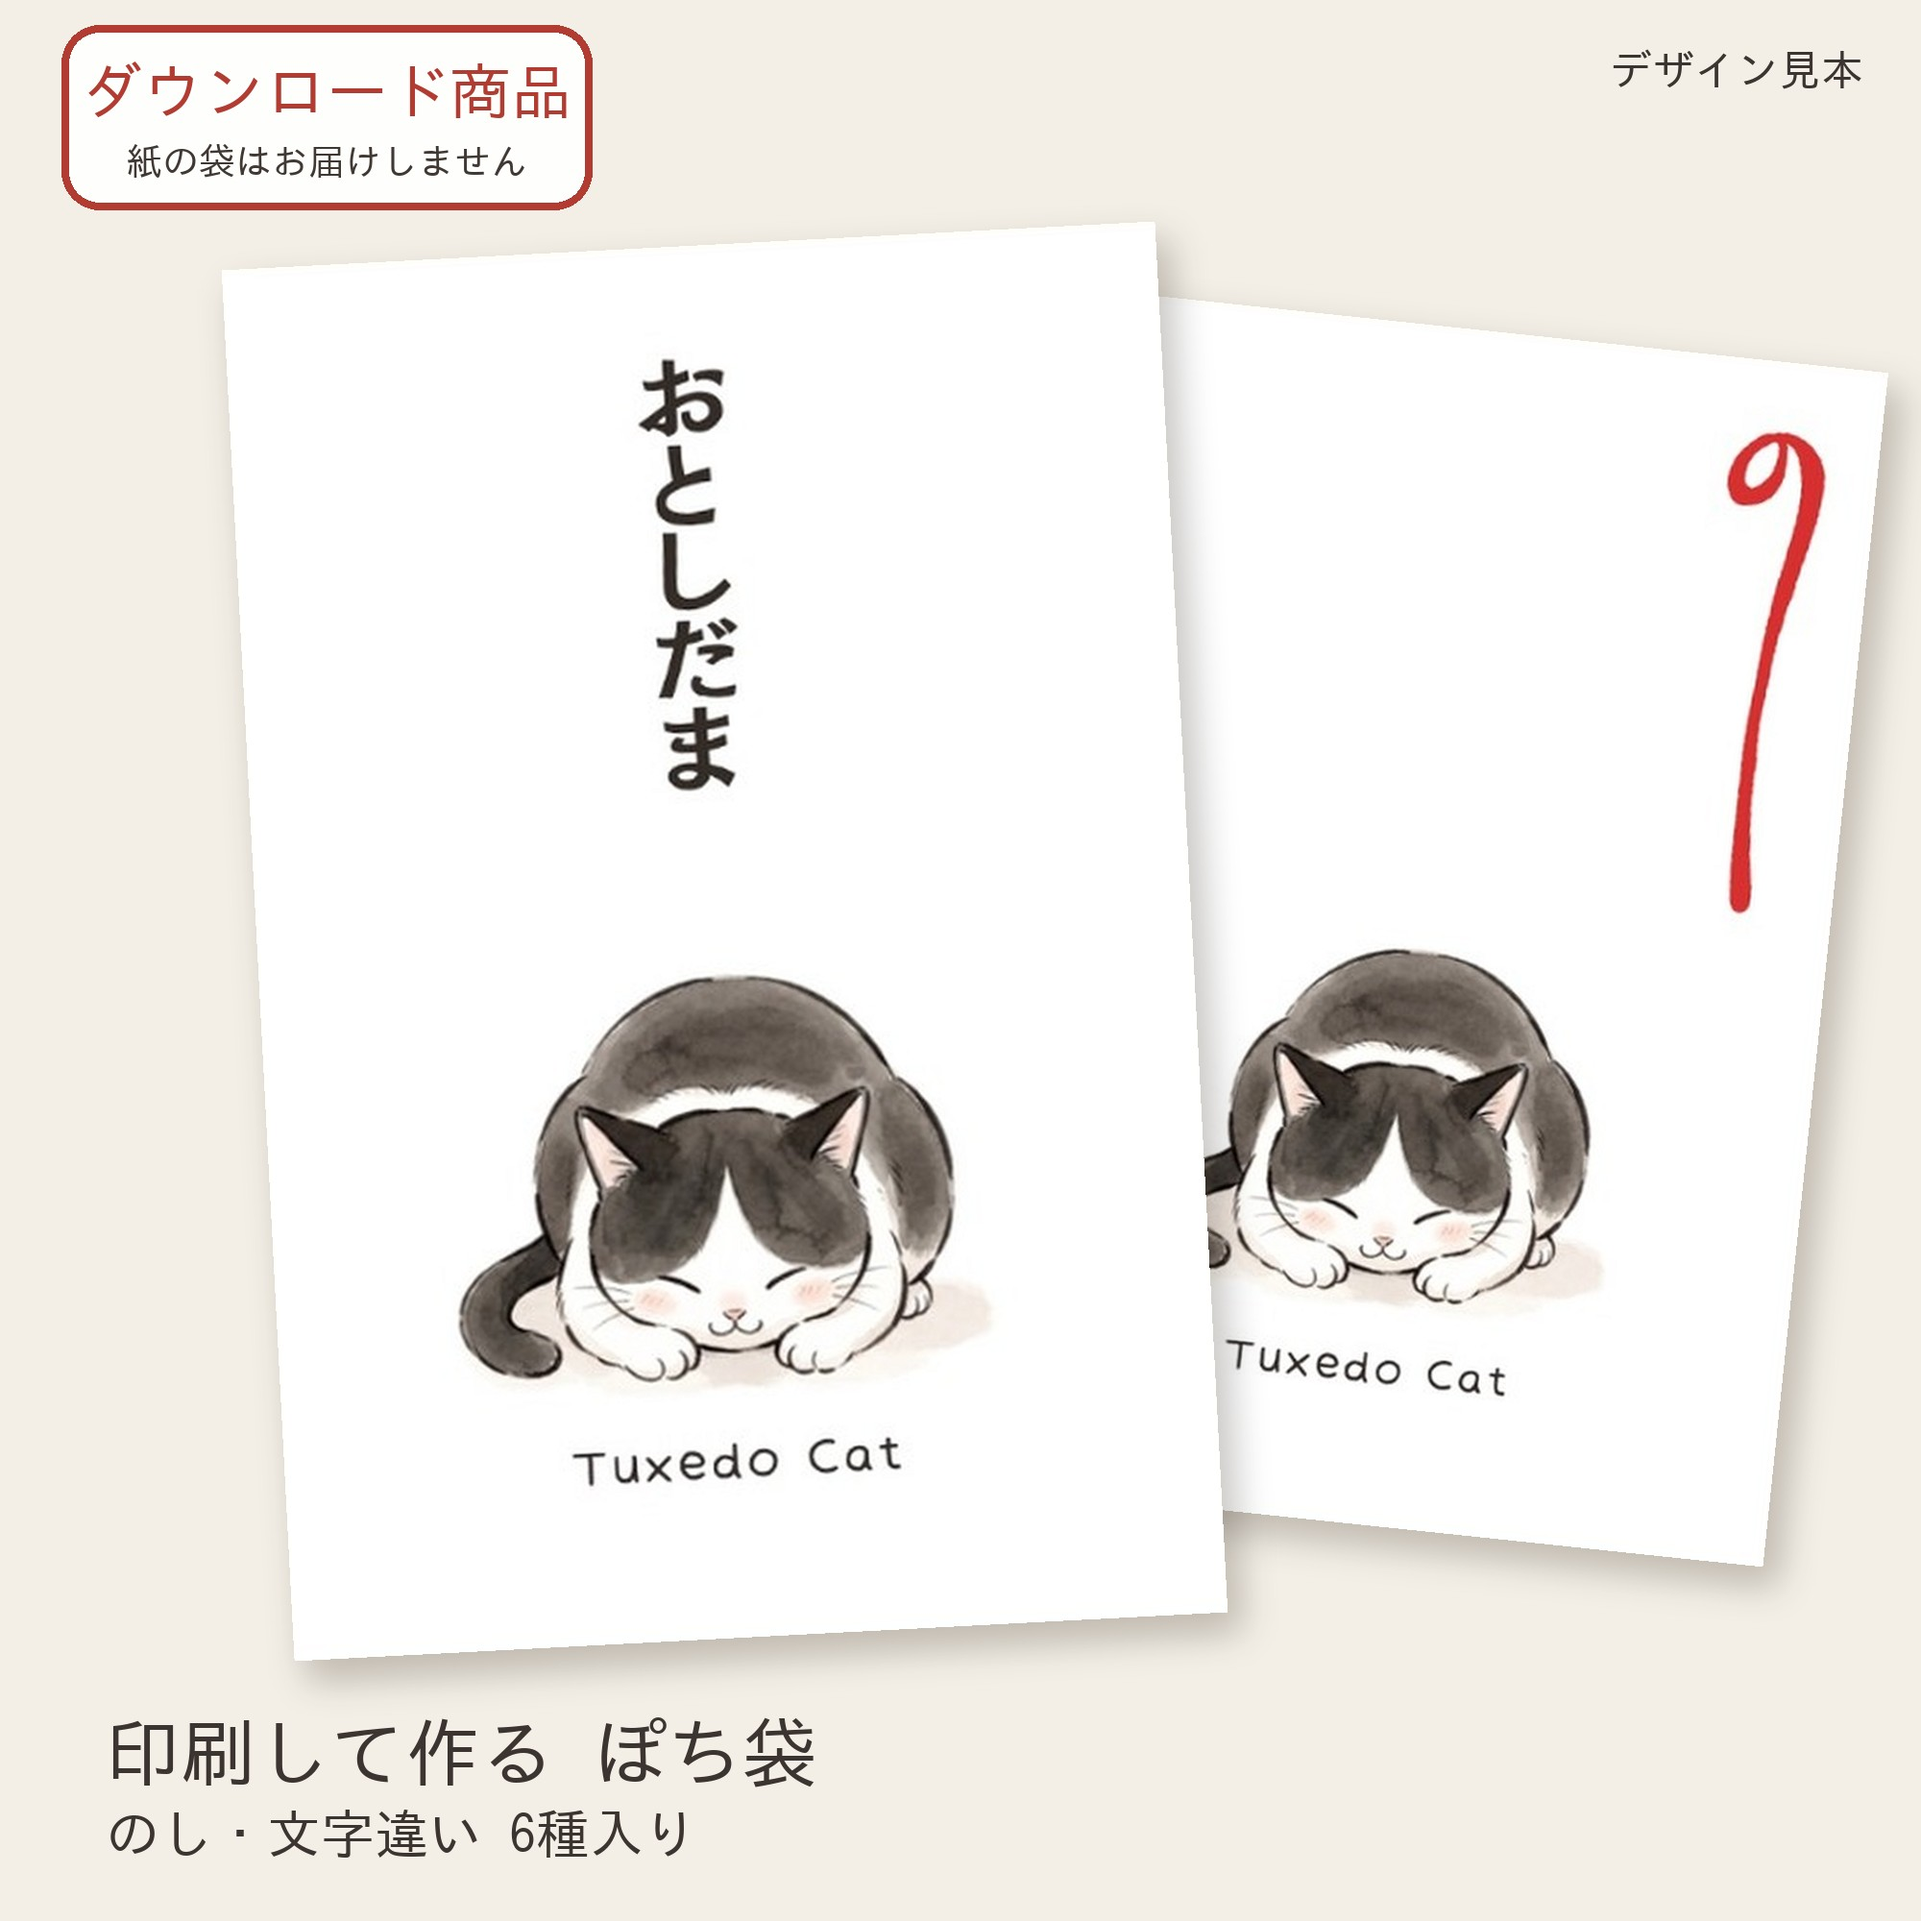
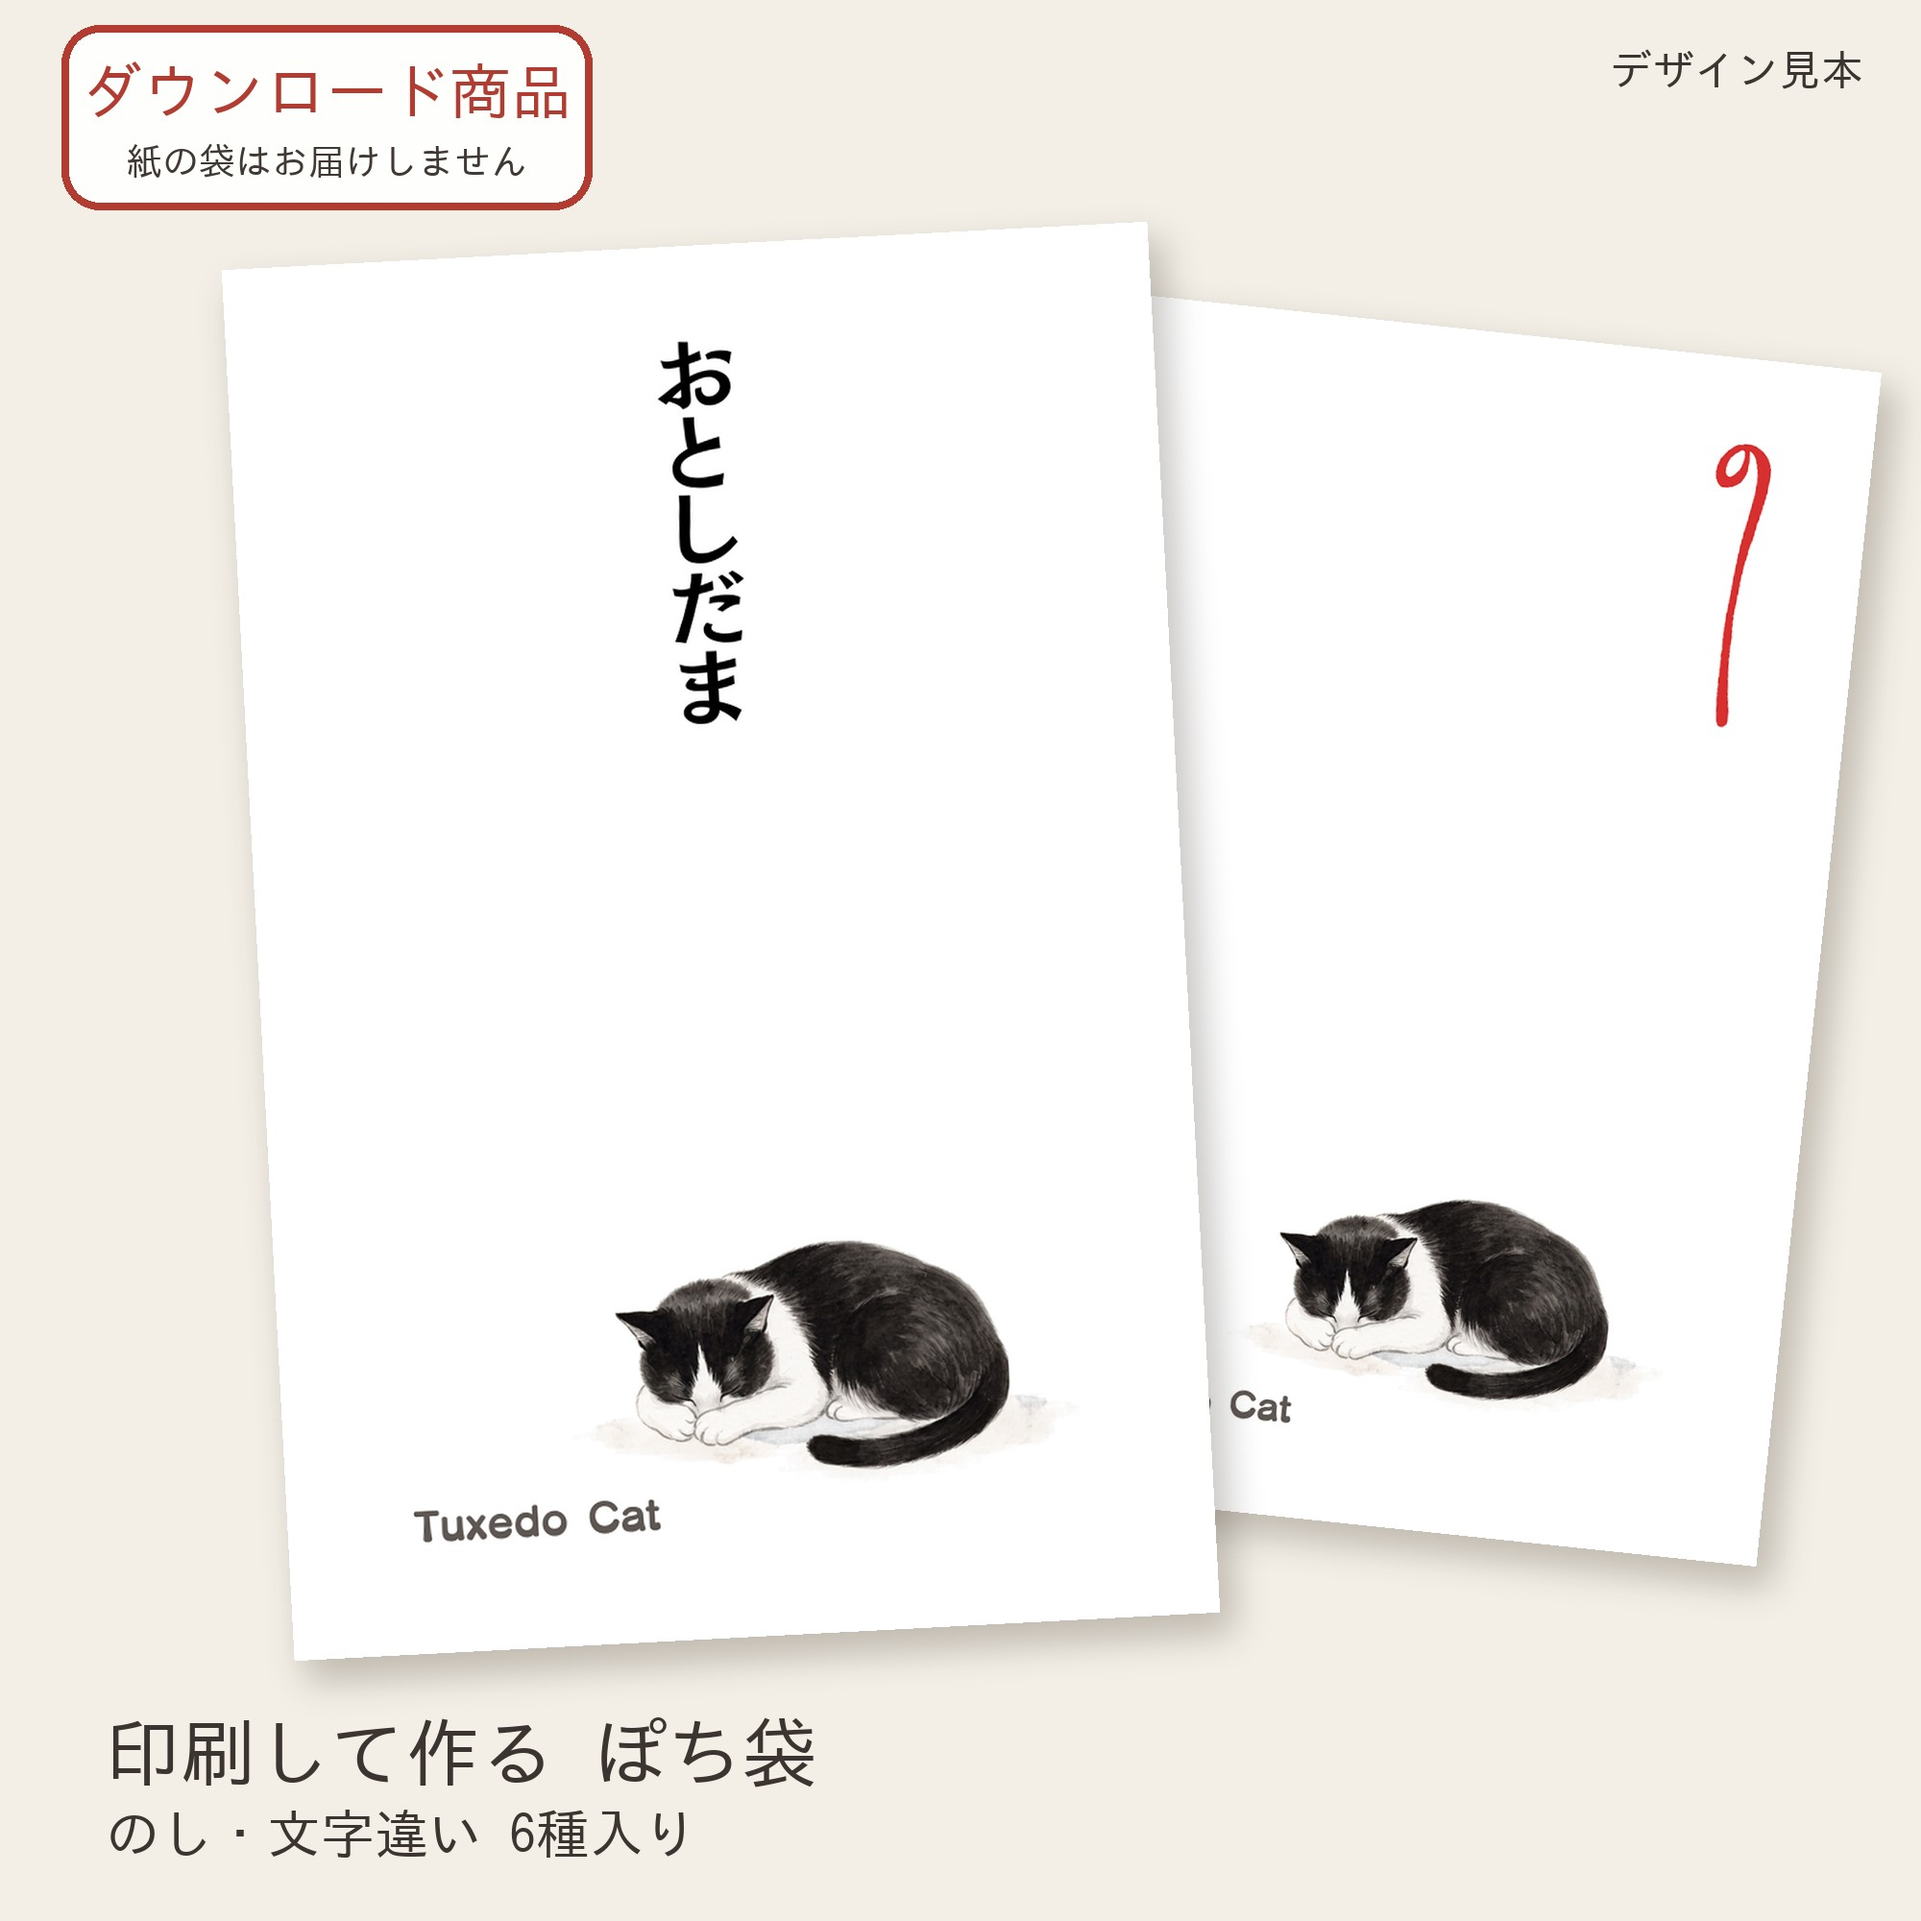
ハチワレ: 作り直した絵で商品画像(1・3枚目)と、ポストカード入りの出品文
Claude-Session: https://claude.ai/code/session_017Q7oY74jx7snH393ipSzN7

diff --git a/docs/minne-pochi-listing-cat-hachiware.md b/docs/minne-pochi-listing-cat-hachiware.md
@@ -1,29 +1,34 @@
-# 出品文(STEP5) ハチワレのぽち袋 データ版
+# 出品文(STEP5) ハチワレのぽち袋+ポストカード データ版
 
-柴犬のひな形(`minne-pochi-listing-shiba.md`)を猫用にしたもの(テーマの書き方を「猫の柄・猫種ごと」に、タグの「犬好き」を「猫好き」に変えた)。
+猫の新しい形(500円)に、ポストカード2種を足した版(柴犬と同じ形)。絵は「写生の水墨画」として書き直した指示文(`minne-pochi-cats-painterly.md` のハチワレ)で作り直した。Canvaの共通マスターで作り、画像はPDFから `shop/make_from_pdf.py` で作った。
 
 ## 商品名
-ハチワレ猫のぽち袋 ごめん寝｜お年玉・お礼に｜印刷して作るダウンロード版 のし付き6種(AIを用いた作品)
+ハチワレ猫のぽち袋とポストカード ごめん寝｜お年玉・お礼に｜印刷して作るダウンロード版 のし付き6種(AIを用いた作品)
+- minneの商品名の文字数の上限に入るか、出品の画面で確かめる。入らないときは「｜お年玉・お礼に」を外す
 
 ## 価格(仮)
 500円
-- 理由: 1つのデータで6種類の文字違いが入り、個人で使う分は何枚でも印刷できる。紙のぽち袋5枚セット(数百円〜)より安く、気軽に試せる値段。
-- **出品前にminneで「ぽち袋 ダウンロード」を検索し、同じようなデータの価格を確かめる。** 相場が200円前後なら合わせる。
 
 ## 発送
 なし(ダウンロード販売。購入後すぐにダウンロードできる)
 
 ## タグ(5つ)
-ハチワレ / ごめん寝 / ぽち袋 / お年玉袋 / 猫好き
+ハチワレ / ごめん寝 / ぽち袋 / ポストカード / 猫好き
+- 前の「お年玉袋」を「ポストカード」にした(「ハチワレ」「ごめん寝」はこの商品らしさなので残した)
 
 ## 説明文
 ```
 そろえた前足に顔をうずめるように、深々と頭を下げて眠る「ごめん寝」。何も悪いことはしていないのに、まるで謝っているみたい。
-ハチワレと暮らす人なら、きっと思わず笑ってしまう「ごめん寝」を、ぽち袋にしました。
+ハチワレと暮らす人なら、きっと思わず笑ってしまう「ごめん寝」を、ぽち袋とポストカードにしました。
 
 お年玉やちょっとしたお礼を渡すとき、袋を見た相手が「うちの子もこれやる!」と笑ってくれたら。そんな一枚になればうれしいです。
+ポストカードは、飾ったり、お手紙に使ったりできます。
 
 絵は、墨と淡い水彩で描いたような雰囲気に仕上げました。ぽち袋という和の袋に合うように、落ち着いた色にしています。
+
+※画像は『かんたん4ステップ』以外、AIで作ったイメージ画像です。袋の絵柄は実際の商品と同じです。
+
+袋の英字「Tuxedo Cat」は、英語でハチワレ(黒白の猫)のことです。
 
 ━━━━━━━━━━
 ■ 中身(ZIPファイル1つ)
@@ -32,9 +37,12 @@
  1ページに同じ袋が2つ入っています。使いたいページだけを印刷してください。
  1:のしも文字もなし(手書き用) 2:のしのみ 3:おとしだま
  4:ありがとう 5:おめでとう 6:こころばかり
+・hachiware_postcard_full.pdf(ポストカード・絵を大きく入れたもの、ハガキの大きさ)
+・hachiware_postcard_letter.pdf(ポストカード・手紙用。すみに小さく絵を入れ、文字を書くところを広くとったもの)
 ・howto.pdf(作り方とご利用について、A4・3ページ)
 
-仕上がりの大きさ:64×95mm(一万円札を三つ折りにして入ります)
+ぽち袋の仕上がりの大きさ:64×95mm(一万円札を三つ折りにして入ります)
+ポストカードの大きさ:100×148mm(はがきと同じ大きさです)
 
 ━━━━━━━━━━
 ■ 作り方
@@ -45,6 +53,8 @@
 貼るときは、スティックのり(固形のり)か両面テープをお使いください。液体のりは、水分でインクがにじむことがあります(とくにインクジェットプリンター)。
 ふたは、シールや両面テープで留めてください。
 詳しくは、中に入っている説明書をご覧ください。
+
+ポストカードは、はがき用紙に「実寸(100%)」で印刷するだけで使えます(切る必要はありません)。プリンターの用紙の設定は「はがき」を選んでください。
 
 ━━━━━━━━━━
 ■ ご注意
@@ -70,19 +80,33 @@
 ない犬種・猫の柄は、メッセージでリクエストをお寄せください。多頭飼いの方の組み合わせのご相談もどうぞ。
 ```
 
-
-
 ## 確かめること(出品前)
+- 絵を確かめた(作り直した絵): 黒白のハチワレが、前足に顔をうずめて「ごめん寝」をしている。おでこの黒と、まん中の白い八の字が見える。目と口はかくれている。漫画っぽさはない。説明文と合っている
+- 袋の名前は「Tuxedo Cat」(濃い灰色の丸い書体)。18か所とも正しいつづり。日本の呼び方と違うので、名前の説明を入れた(キジトラ・サビ猫と同じ)
+- 袋の表は6ページとも64×95mm。縦書きの文字は黒
 - 絵は黒白のハチワレ。ほかの毛色のハチワレ(キジ白、サバ白など)の要望があれば、別の出品にする
+- 前の商品画像の場面写真(ユーザーが自分で作ったもの)は、前の絵なので使わない
+
+## 場面写真(Geminiのプロンプト)
+袋は真っ白で、ふたを閉じた表側だけ(ふたの線なし、幅:高さ=2:3)で作ってもらい、本物の絵はあとで `shop/make_scene_blank.py` で貼る。
+```
+A warm, natural lifestyle photo, square 1:1. A cozy Japanese living room in soft afternoon light, with a light-wood floor and a soft cushion. The background is softly blurred.
+
+On the floor, one small closed Japanese pochi-bukuro money envelope stands upright, propped against a small wooden box. We see only its FRONT side: one clean, flat, plain rectangle of matte white paper with crisp square corners. The flap is already closed and folded to the back, so NO flap, NO V-shaped fold, NO seam and NO fold lines are visible on the front. The rectangle is exactly 2:3 in width to height (6.4 cm wide, 9.5 cm tall), not narrower. The front is COMPLETELY BLANK: no drawing, no text, no pattern, no logo, no noshi mark. The envelope faces the camera straight on, flat and not tilted, with all four corners clearly visible and not covered by anything. It stands in the front right of the frame and takes up about 25% of the image width, large and easy to see.
+
+On the left, on a soft cushion, a real black-and-white tuxedo cat (black back and head with a white upside-down V split on the face, white chest and paws) sleeps in the "apology sleep" pose: crouched low with its forehead pressed down onto its white front paws, face hidden, as if bowing to say sorry. Real cat, not a cartoon. The cat does not touch or cover the envelope.
+
+Photorealistic, shallow depth of field, gentle shadows, calm muted colors. No people, no hands, no text anywhere in the image.
+```
 
 ## ZIPの名前
-uchinoko-aruaru_hachiware_pochi.zip
+uchinoko-aruaru_hachiware_pochi.zip(中身: hachiware_pochi.pdf、hachiware_postcard_full.pdf、hachiware_postcard_letter.pdf、howto.pdf)
 
 ## 商品画像
 1. shop/listing_hachiware_1.jpg(デザイン見本)
-2. shop/listing_hachiware_3.jpg(6種類)
-3. shop/listing_shiba_4.jpg(作り方)
-
-## 説明文に入れる一文(ユーザーの決まり)
-説明文の「絵は、墨と淡い水彩で…落ち着いた色にしています。」の段落の次に、1行あけてこの一文を入れる:
-`※画像は『かんたん4ステップ』以外、AIで作ったイメージ画像です。袋の絵柄は実際の商品と同じです。`
+2. shop/scene_hachiware_1_note.jpg(場面写真)(まだ。Geminiの写真を待っている)
+3. shop/listing_hachiware_3.jpg(6種類)
+4. shop/listing_hachiware_postcard.jpg(ポストカード2種の見本)(まだ。もとの絵を待っている)
+5. ポストカードの場面写真(まだ)
+6. shop/listing_shiba_4.jpg(作り方)
+- 1と3は `python3 shop/make_from_pdf.py <PDF> hachiware --overwrite` で作った
